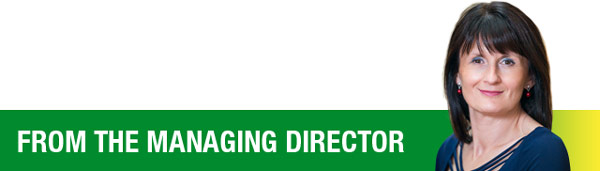
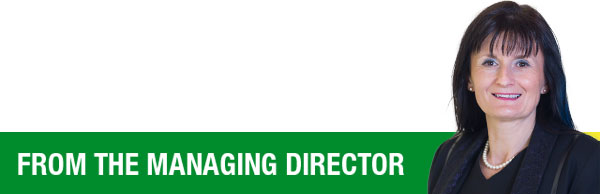
Markup and styling changes to bulletin

Changed region(s): [[0.0, 0.0, 1.0, 1.0]]

diff --git a/themes/fial_theme/edm/september-2014.html b/themes/fial_theme/edm/september-2014.html
@@ -114,7 +114,7 @@
                                        <tbody>
                                           <tr>
                                              <td align="right" valign="middle" style="font-family: Helvetica, arial, sans-serif; font-size: 11px;color: #333">
-                                                <a href="#" style="text-decoration: none; color: #333; border-bottom:1px dotted #333;">[web_version]</a> 
+                                                <a href="[web_version]" style="text-decoration: none; color: #333; border-bottom:1px dotted #333;">View email online</a> 
                                              </td>
                                              <td width="20">&nbsp;</td>
                                           </tr>
@@ -226,8 +226,9 @@
                                           <!-- Spacing -->
                                           <!-- signature -->
                                           <tr>
-                                             <td style="font-family: Helvetica, arial, sans-serif; font-size: 14px; font-weight:bold; color: #333333; text-align:left;line-height: 24px;">
-                                                <img width="127" border="0" height="84" alt="" border="0" style="display:block; border:none; outline:none; text-decoration:none;" src="http://mx8.inboxgateway.com/Uploads/3513/1408516944_signature.png" alt="Peter Schutz, Chariman" >
+                                             <td style="font-family: Helvetica, arial, sans-serif; font-size: 14px; font-weight:bold; color: #666666; text-align:left;line-height: 24px;">
+                                                <!-- <img width="127" border="0" height="84" alt="" border="0" style="display:block; border:none; outline:none; text-decoration:none;" src="http://mx8.inboxgateway.com/Uploads/3513/1408516944_signature.png" alt="Peter Schutz, Chariman" > -->
+                                                Peter Schutz<br> Chairman
                                              </td>
                                           </tr>
                                           <!-- /signature -->
@@ -265,7 +266,7 @@
                               <tr>
                                  <!-- start of image -->
                                  <td align="center">
-                                    <img width="600" border="0" height="171" alt="" border="0" style="display:block; border:none; outline:none; text-decoration:none;" src="img/heading-managing-director.jpg" alt="Fial - Food Innovation Australia Ltd - From the managing director" class="header-md">
+                                    <img width="600" border="0" height="194" alt="" border="0" style="display:block; border:none; outline:none; text-decoration:none;" src="img/heading-managing-director.jpg" alt="Fial - Food Innovation Australia Ltd - From the managing director" class="header-chairman">
                                  </td>
                               </tr>
                            </tbody>
@@ -315,7 +316,9 @@
                                           <!-- content -->
                                           <tr>
                                              <td style="font-family: Helvetica, arial, sans-serif; font-size: 13px; color: #666; text-align:left;line-height: 24px;">
-                                                <span style="font-size:15px;">I want to thank all of you who have taken time to meet representatives from FIAL over the past months. We have met over 400 people across the country in 22 cities and regional centres, and had great conversations listening to your business challenges and needs.  Thanks to your insights, we have developed a range of programs with our partners to build capabilities and connect you to opportunities.</span>
+                                                <span style="font-size:15px;">Time away from your business is time not spent on your business, which is why I would like to thank those who have taken the time to meet representatives from FIAL over the past months. We have met over 400 people across the country in 22 cities and regional centres, and had great conversations listening to your business challenges and needs.  Thanks to your insights, we have developed a range of programs with our partners to build capabilities and connect you to opportunities.</span>
+                                                <br>&nbsp;<br>
+                                                Many of you asked for a copy of the presentation at the Meet FIAL events and we would be happy to email you a copy. Please send us an email at <a href="mailto:info@fial.com.au?Subject=Meet%20Fial%20Presentation" style="color:#000;text-decoration:none;font-weight:bold; border-bottom:1px dotted black;">info@fial.com.au</a>.
                                                 <br>&nbsp;<br>
                                                 The industry has the resources, talent and drive to be global leaders in the supply of food and beverage, but we need to work together to overcome the barriers and knowledge gaps that exist. Industry collaboration can accelerate the creation of tangible solutions - finding the right contact, information, skill or support, which can lead to a path that seemed impossible at the onset.
                                                 <br>&nbsp;<br>
@@ -326,8 +329,9 @@
                                           <!-- End of content -->
                                           <!-- Signature -->
                                           <tr>
-                                             <td style="font-family: Helvetica, arial, sans-serif; font-size: 14px; font-weight:bold; color: #333333; text-align:left;line-height: 24px;">
-                                                <img width="181" border="0" height="85" alt="" border="0" style="display:block; border:none; outline:none; text-decoration:none;" src="img/signature-Mirjana-Prica.png" alt="Mirjana Prica, Managing Director" >
+                                             <td style="font-family: Helvetica, arial, sans-serif; font-size: 14px; font-weight:bold; color: #666666; text-align:left;line-height: 24px;">
+                                                <!-- <img width="181" border="0" height="85" alt="" border="0" style="display:block; border:none; outline:none; text-decoration:none;" src="img/signature-Mirjana-Prica.png" alt="Mirjana Prica, Managing Director" > -->
+                                                 Mirjana Prica<br> Managing Director
                                              </td>
                                           </tr>
                                           <!-- /Signature -->
@@ -606,42 +610,12 @@
                                                       <!-- content -->
                                                       <tr>
                                                          <td style="font-family: Helvetica, arial, sans-serif; font-size: 13px; color: #666; text-align:left;line-height: 24px;">
-                                                            Are you from an ambitious company looking for innovation and new opportunities? Do you know how to find your next consumers, customers and products?
+                                                            Be part of a dynamic group of local businesses collaborating to find solutions to business challenges and explore opportunities. 
                                                             <br> &nbsp; <br>
- 
-                                                            Join FIAL's Future Food Clusters program to review your strategic business approach to innovation and use new tools to clarify your strategy and increase both value and effectiveness. Be part of a dynamic group of local businesses collaborating to find solutions to business challenges and explore opportunities.
+                                                            Are you from an ambitious company looking for innovation and new opportunities? Do you know how to find your next consumers, customers and products? 
                                                             <br> &nbsp; <br>
-                                                            <!-- <strong>Workshop dates:</strong>
-
-                                                            <br>
-                                                            <table width="100%" cellspacing="0" cellpadding="0">
-                                                               <tr>
-                                                                  <td bgcolor="#eaeaea" style="background-color:#eaeaea; padding-left:5px;">Hobart</td>
-                                                                  <td bgcolor="#eaeaea" style="background-color:#eaeaea;">6-7 Oct 2014</td>
-                                                                  <td bgcolor="#eaeaea" style="background-color:#eaeaea;">17 Feb 2015</td>
-                                                               </tr>
-                                                               <tr>
-                                                                  <td style="padding-left:5px;">Melbourne</td>
-                                                                  <td>8-9 Oct 2014</td>
-                                                                  <td>18 Feb 2015</td>
-                                                               </tr>
-                                                               <tr>
-                                                                  <td bgcolor="#eaeaea" style="background-color:#eaeaea; padding-left:5px;">Perth</td>
-                                                                  <td bgcolor="#eaeaea" style="background-color:#eaeaea;">27-28 Oct 2014</td>
-                                                                  <td bgcolor="#eaeaea" style="background-color:#eaeaea;"> 10 Feb 2015</td>
-                                                               </tr>
-                                                               <tr>
-                                                                  <td style="padding-left:5px;">Adelaide</td>
-                                                                  <td>29-30 Oct 2014</td>
-                                                                  <td>11 Feb 2015</td>
-                                                               </tr>
-                                                               <tr>
-                                                                  <td bgcolor="#eaeaea" style=" background-color:#eaeaea; padding-left:5px;">Brisbane</td>
-                                                                  <td bgcolor="#eaeaea" style="background-color:#eaeaea;">3-4 Nov 2014</td>
-                                                                  <td bgcolor="#eaeaea" style="background-color:#eaeaea;">24 Feb 2015</td>
-                                                               </tr>
-                                                            </table>
-                                                            &nbsp;<br> -->
+                                                            Join FIAL's Future Food Clusters program to review your strategic business approach to innovation and use new tools to clarify your strategy and increase both value and effectiveness.
+                                                            <br> &nbsp; <br>
                                                          </td>
                                                       </tr>
                                                       <!-- end of content -->
@@ -1234,7 +1208,69 @@
    </tbody>
 </table>
 <!-- end of article#1 -->
- 
+
+ <!-- Start of share -->
+<table width="100%" cellpadding="0" cellspacing="0" border="0" id="backgroundTable">
+   <tbody>
+      <tr>
+         <td>
+            <table width="600" cellpadding="0" cellspacing="0" border="0" align="center" class="devicewidth">
+               <tbody>
+                  <tr>
+                     <td width="100%">
+                        <table width="600" cellpadding="0" cellspacing="0" border="0" align="center" class="devicewidth">
+                           <tbody>
+                              <!-- Spacing -->
+                              <tr>
+                                 <td width="100%" height="20"></td>
+                              </tr>
+                              <!-- Spacing -->
+                              <tr>
+                                 <td>
+                                    <table width="560" align="center" border="0" cellpadding="0" cellspacing="0" class="devicewidthinner">
+                                       <tbody>
+                                          <tr>
+                                             <td align="center" valign="middle" style="font-family: Helvetica, arial, sans-serif; font-size:14px; line-height: 24px; text-align: center; color:#666;">
+                                                <!-- <h2 style="font-family: Constantia, 'Lucida Bright', Lucidabright, 'Lucida Serif', Lucida, 'DejaVu Serif', 'Bitstream Vera Serif', 'Liberation Serif', Georgia, serif; font-size: 24px; font-weight:bold; color: #333333; line-height: 24px; margin:0; padding:0;"><em>Sharing is caring</em></h2>
+                                                <br> -->
+                                               <!--  <p style="font-family: Helvetica, arial, sans-serif; font-size: 14px; color: #333333; text-align:left;line-height: 24px; margin:0; padding:0;"><strong>Issue 12</strong> | September 2014</p> -->
+
+                                                <a href="[forward_to_friend]" target="_blank" style="text-decoration:none; display: inline-block; margin-right:4px;">
+                                                   <img width="163" border="0" height="40" alt="" border="0" style="inline-block; border:none; outline:none; text-decoration:none;" src="img/button-forward-to-a-friend.png" alt="Forward to a friend">
+                                                </a> 
+                                                <!-- <a href="[forward_to_friend]" target="_blank" style="text-decoration:none; display: inline-block; margin-right:4px;">
+                                                   <img width="90" border="0" height="40" alt="" border="0" style="inline-block; border:none; outline:none; text-decoration:none;" src="img/button-twitter.png" alt="Tweet this Bulletin">
+                                                </a>  -->
+                                                <a href="[fbshare]" target="_blank" style="text-decoration:none; display: inline-block; margin-right:4px;">
+                                                   <img width="164" border="0" height="40" alt="" border="0" style="inline-block; border:none; outline:none; text-decoration:none;" src="img/button-facebook.png" alt="Share on Facebook">
+                                                <a href="[lishare]" target="_blank" style="text-decoration:none; display: inline-block; margin-right:4px;">
+                                                   <img width="158" border="0" height="40" alt="" border="0" style="inline-block; border:none; outline:none; text-decoration:none;" src="img/button-linkedin.png" alt="Share on LinkedIn">
+                                                </a> 
+                                                
+                                                </a>
+                                             </td>
+                                          </tr>
+                                       </tbody>
+                                    </table>
+                                 </td>
+                              </tr>
+                              <!-- Spacing -->
+                              <tr>
+                                 <td width="100%" height="20"></td>
+                              </tr>
+                              <!-- Spacing -->
+                           </tbody>
+                        </table>
+                     </td>
+                  </tr>
+               </tbody>
+            </table>
+         </td>
+      </tr>
+   </tbody>
+</table>
+<!-- End of sharebox --> 
+
 <!-- Start of contactbox -->
 <table width="100%" cellpadding="0" cellspacing="0" border="0" id="backgroundTable">
    <tbody>
@@ -1244,7 +1280,7 @@
                <tbody>
                   <tr>
                      <td width="100%">
-                        <table width="600" bgcolor="f6f6f6" cellpadding="0" cellspacing="0" border="0" align="center" class="devicewidth">
+                        <table width="600" bgcolor="f6f6f6" cellpadding="0" cellspacing="0" border="0" align="center" class="devicewidth" style="border-top: 2px solid #087b37;">
                            <tbody>
                               <!-- Spacing -->
                               <tr>
